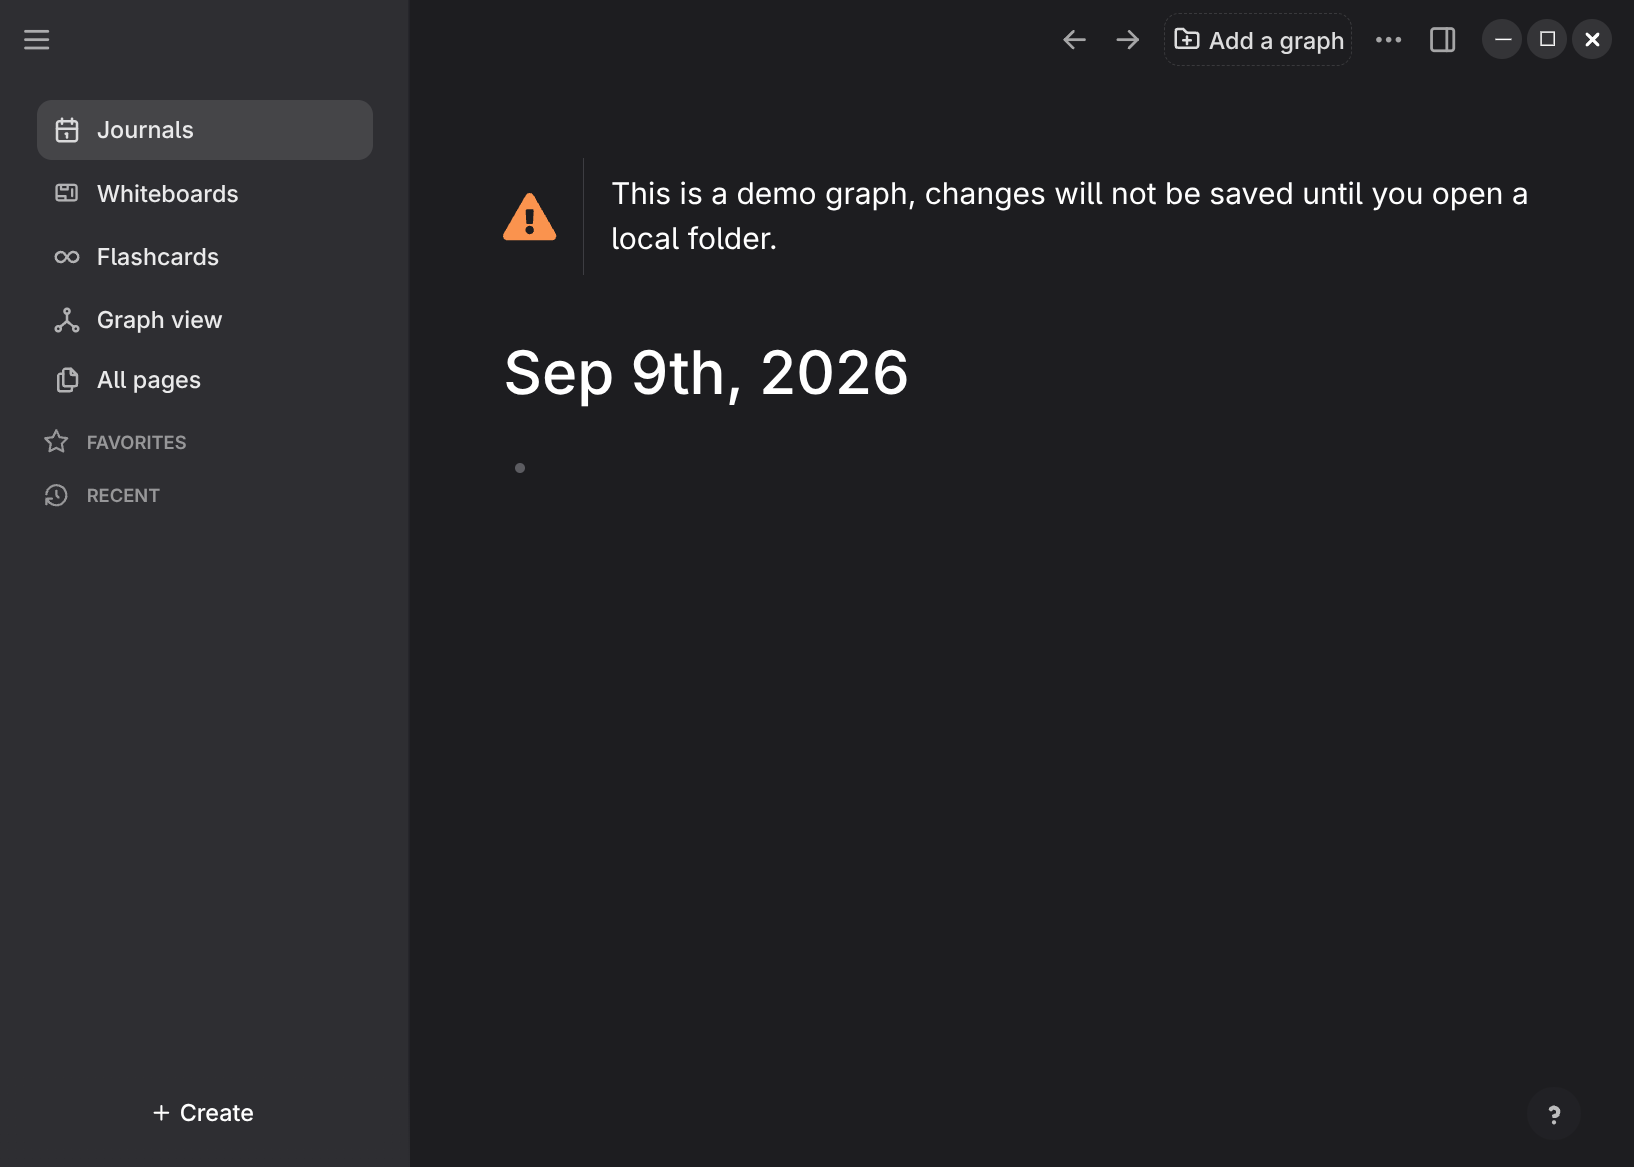
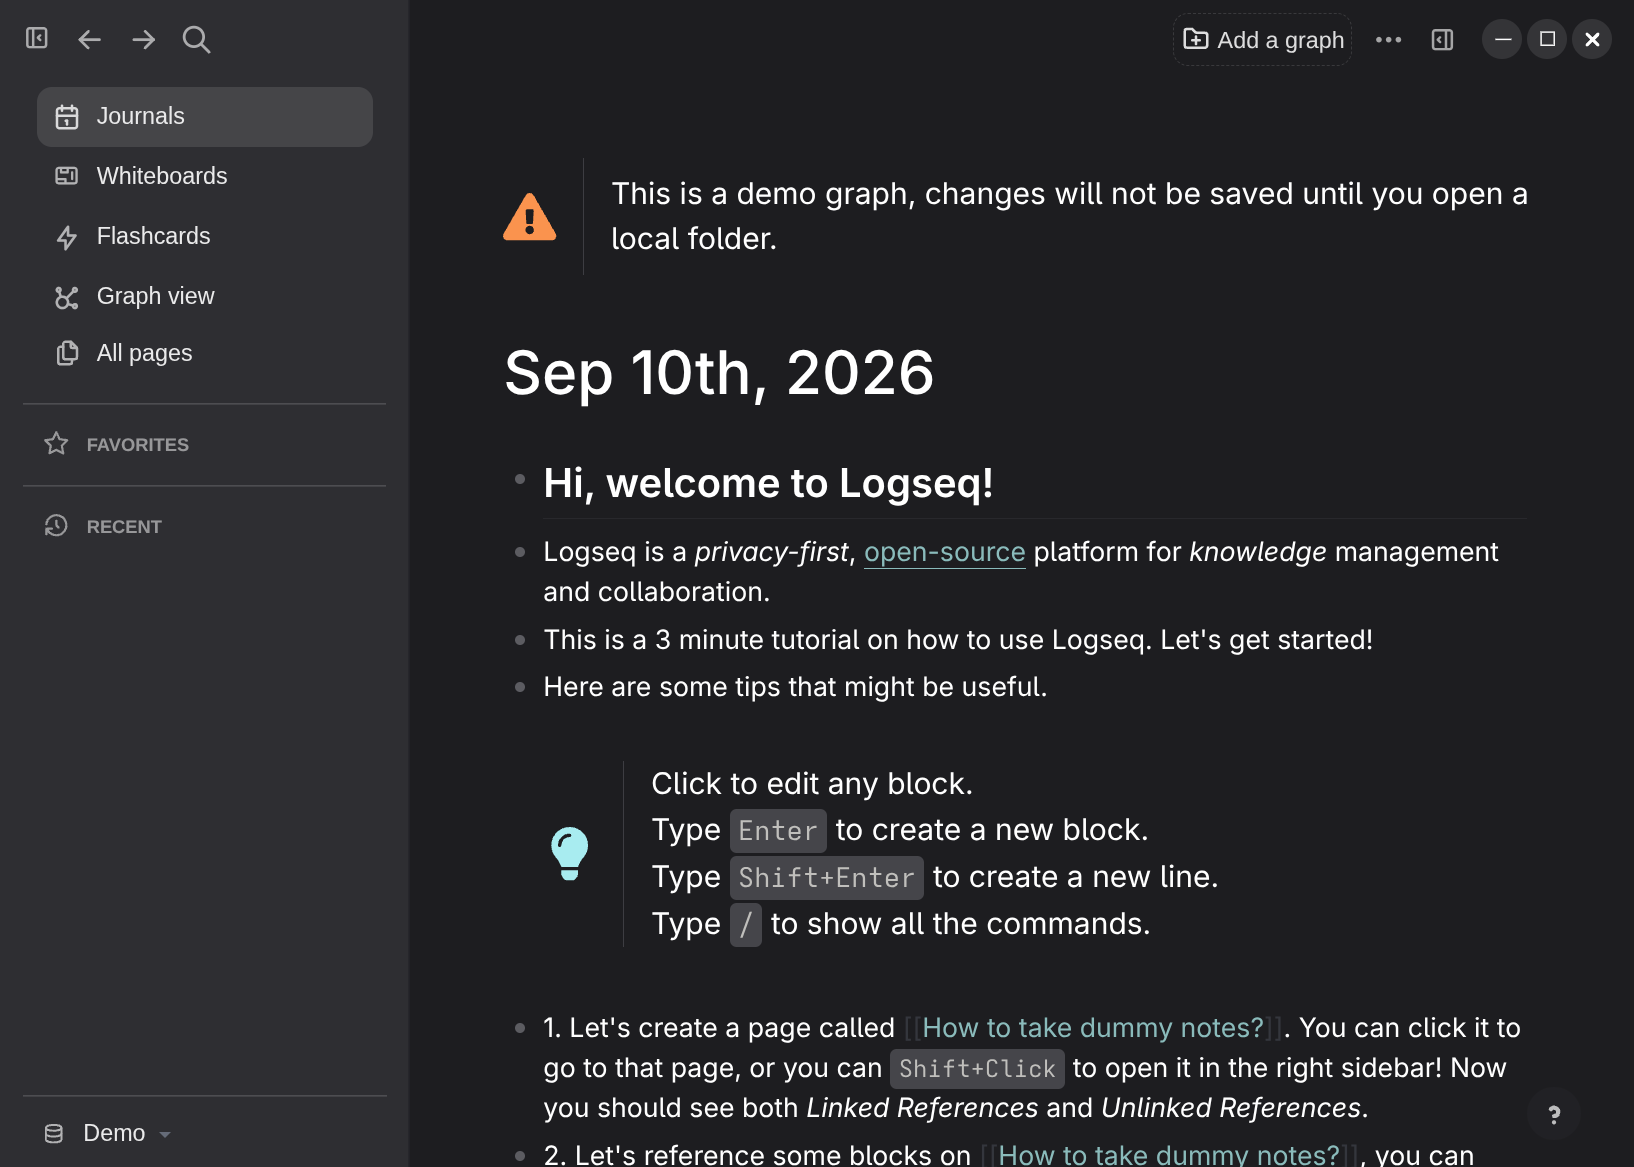
Model the sidebar dividers on GNOME Files
libadwaita draws sidebar separators as `.navigation-sidebar > separator
{ margin: 6px }` — a 1px rule with 6px of air either side, inset so it lines up
with the row highlights instead of spanning the full width. GTK's list
separator colour is `currentColor var(--border-opacity)` = 15%.

Checked against a Files screenshot rather than assumed: sidebar ground #2e2e32,
line #434346 — white at 10% as rendered — and the line spans exactly the same
extent as the selected row's highlight. 15% declared renders to ~9.6% here,
because a 1px line spreads across two device rows at 1.667 DPR; 10% declared
came out at 6.2% and read too faint.

Drawn as an inset background gradient, since a border always spans the full box.
border-top: 0 clears the full-width line logseq-awesome-ui draws from
--ls-guideline-color so the two do not stack — and without that plugin these
rules are what puts dividers there at all.

Measured after: all three land at 14px inset on both sides, alpha 0.096 against
Files' 0.100.

Claude-Session: https://claude.ai/code/session_018soG2kagcVB1HXBTPdhYqA

diff --git a/themes/adwaita.css b/themes/adwaita.css
@@ -388,6 +388,10 @@ html[data-theme][data-color] {
   /* Content gutter. Logseq's own is narrower; 24px matches a GNOME view. */
   --adw-content-padding: 24px;
 
+  /* Sidebar section dividers line up with the row highlights, which sit 14px
+     in from both edges. Measured off the rendered sidebar, not assumed. */
+  --adw-sidebar-divider-inset: 14px;
+
   /* Width reserved for the window-control cluster: three 24px circles with
      3px spacing plus 13px of padding. The plugin's close-only setting drops
      this to 44px. */
@@ -765,6 +769,52 @@ html[data-theme] #left-sidebar .left-sidebar-inner {
      the window and leaves a dark strip along the bottom edge. #left-sidebar is
      position:fixed at top:0, so pinning it to the viewport is safe. */
   height: 100vh;
+}
+
+/* Section dividers, modelled on GNOME Files' sidebar.
+
+   libadwaita draws them as `.navigation-sidebar > separator { margin: 6px }` —
+   a 1px rule with 6px of air above and below, inset so it lines up with the row
+   highlights rather than spanning the full width. GTK paints list separators as
+   `currentColor var(--border-opacity)` = 15%, which is --adw-border.
+
+   That 15% is also what matches Files on screen. Sampling a Files sidebar gives
+   ground #2e2e32 and line #434346 — white at 10% *as rendered* — and a 1px line
+   declared at 15% renders to about that here, because at this display's 1.667
+   DPR it spreads across two device rows and each gets a share.
+
+   Drawn as an inset background gradient rather than a border, because a border
+   always spans the full box. `border-top: 0` clears the full-width line
+   logseq-awesome-ui draws here from --ls-guideline-color, so the two do not
+   stack. Without that plugin these rules are what puts dividers there at all. */
+html[data-theme] #left-sidebar .nav-content-item,
+html[data-theme] #left-sidebar .cp__menubar-repos > .ui__dropdown-trigger {
+  border-top: 0;
+  margin-top: 6px;
+  padding-top: 7px;   /* 6px of air + the 1px line itself */
+  background-image: linear-gradient(var(--adw-border), var(--adw-border));
+  background-repeat: no-repeat;
+  background-position: var(--adw-sidebar-divider-inset) 0;
+  background-size:
+    calc(100% - 2 * var(--adw-sidebar-divider-inset)) 1px;
+}
+
+/* The vault button at the sidebar's foot sits inside the nav's own padding, so
+   its box already starts 8px in. It needs the remaining 6px, not the full
+   inset, to line up with the dividers above it — measured, both land at 14px. */
+html[data-theme] #left-sidebar .cp__menubar-repos > .ui__dropdown-trigger {
+  background-position: 6px 0;
+  background-size: calc(100% - 12px) 1px;
+}
+
+/* Files has no divider directly under the header — only between groups. The
+   first .nav-content-item keeps its divider: the nav block above it is a
+   different group, exactly as Trash and Downloads are in Files. */
+html[data-theme] #left-sidebar nav.cp__menubar-repos {
+  border-top: 0;
+  background-image: none;
+  margin-top: 0;
+  padding-top: 0;
 }
 
 html[data-theme] #left-sidebar .left-sidebar-inner a.item {

diff --git a/src/css/30-structure.css b/src/css/30-structure.css
@@ -218,6 +218,52 @@ html[data-theme] #left-sidebar .left-sidebar-inner {
   height: 100vh;
 }
 
+/* Section dividers, modelled on GNOME Files' sidebar.
+
+   libadwaita draws them as `.navigation-sidebar > separator { margin: 6px }` —
+   a 1px rule with 6px of air above and below, inset so it lines up with the row
+   highlights rather than spanning the full width. GTK paints list separators as
+   `currentColor var(--border-opacity)` = 15%, which is --adw-border.
+
+   That 15% is also what matches Files on screen. Sampling a Files sidebar gives
+   ground #2e2e32 and line #434346 — white at 10% *as rendered* — and a 1px line
+   declared at 15% renders to about that here, because at this display's 1.667
+   DPR it spreads across two device rows and each gets a share.
+
+   Drawn as an inset background gradient rather than a border, because a border
+   always spans the full box. `border-top: 0` clears the full-width line
+   logseq-awesome-ui draws here from --ls-guideline-color, so the two do not
+   stack. Without that plugin these rules are what puts dividers there at all. */
+html[data-theme] #left-sidebar .nav-content-item,
+html[data-theme] #left-sidebar .cp__menubar-repos > .ui__dropdown-trigger {
+  border-top: 0;
+  margin-top: 6px;
+  padding-top: 7px;   /* 6px of air + the 1px line itself */
+  background-image: linear-gradient(var(--adw-border), var(--adw-border));
+  background-repeat: no-repeat;
+  background-position: var(--adw-sidebar-divider-inset) 0;
+  background-size:
+    calc(100% - 2 * var(--adw-sidebar-divider-inset)) 1px;
+}
+
+/* The vault button at the sidebar's foot sits inside the nav's own padding, so
+   its box already starts 8px in. It needs the remaining 6px, not the full
+   inset, to line up with the dividers above it — measured, both land at 14px. */
+html[data-theme] #left-sidebar .cp__menubar-repos > .ui__dropdown-trigger {
+  background-position: 6px 0;
+  background-size: calc(100% - 12px) 1px;
+}
+
+/* Files has no divider directly under the header — only between groups. The
+   first .nav-content-item keeps its divider: the nav block above it is a
+   different group, exactly as Trash and Downloads are in Files. */
+html[data-theme] #left-sidebar nav.cp__menubar-repos {
+  border-top: 0;
+  background-image: none;
+  margin-top: 0;
+  padding-top: 0;
+}
+
 html[data-theme] #left-sidebar .left-sidebar-inner a.item {
   margin: 0 6px;
   padding: 6px 8px;

diff --git a/src/css/20-mappings.css b/src/css/20-mappings.css
@@ -124,6 +124,10 @@ html[data-theme][data-color] {
   /* Content gutter. Logseq's own is narrower; 24px matches a GNOME view. */
   --adw-content-padding: 24px;
 
+  /* Sidebar section dividers line up with the row highlights, which sit 14px
+     in from both edges. Measured off the rendered sidebar, not assumed. */
+  --adw-sidebar-divider-inset: 14px;
+
   /* Width reserved for the window-control cluster: three 24px circles with
      3px spacing plus 13px of padding. The plugin's close-only setting drops
      this to 44px. */
